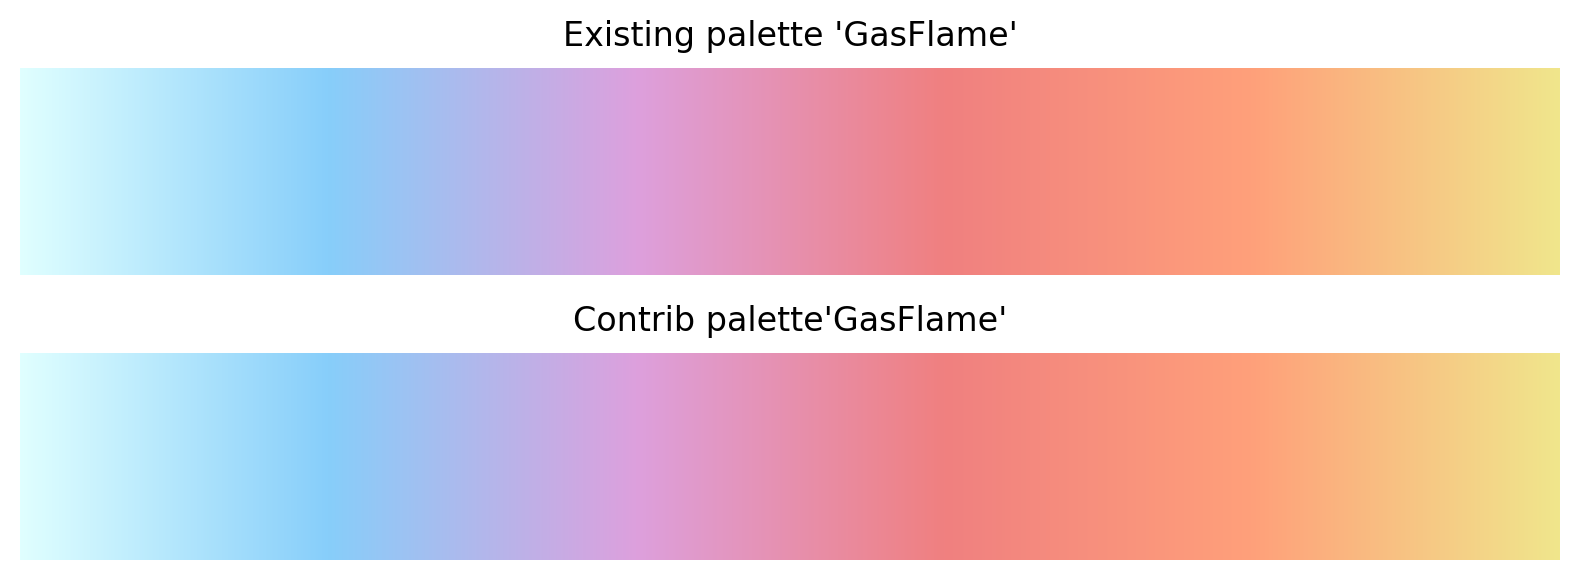
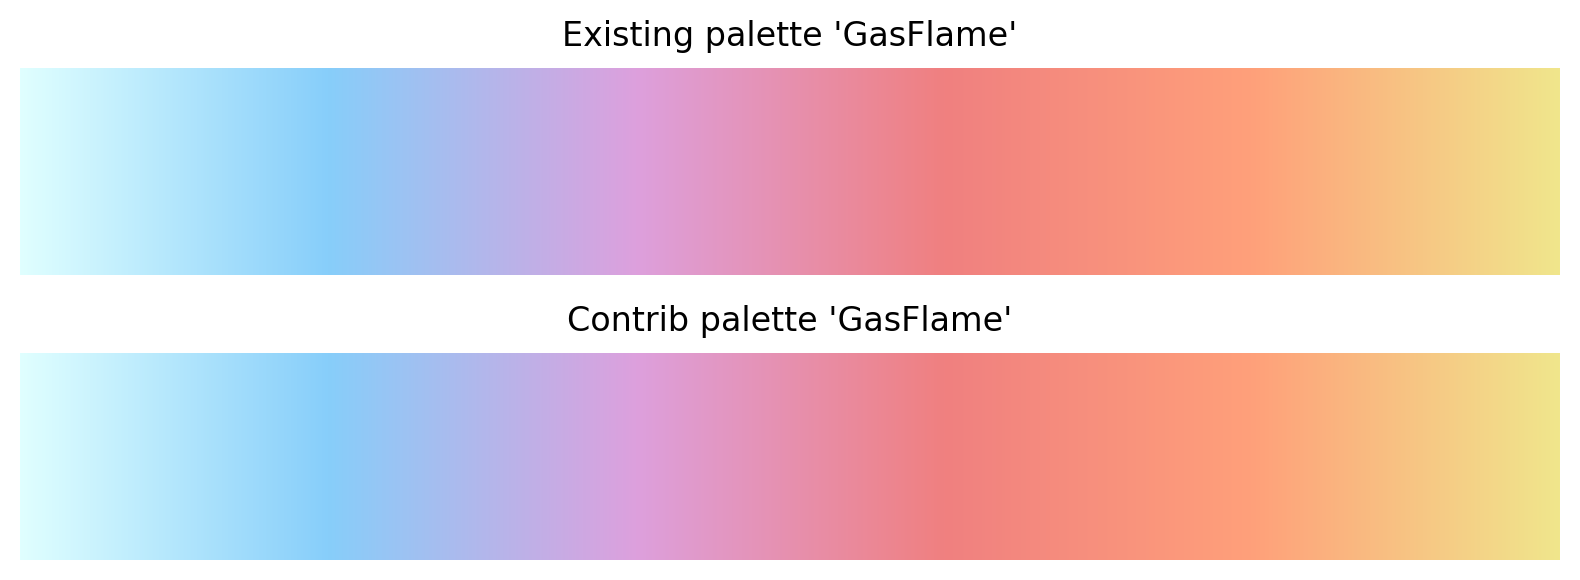
[palcol] TOOLS - Better codes

Changed region(s): [[0.3411, 0.5276, 0.6513, 0.5897], [0.3722, 0.031, 0.6203, 0.0931]]

diff --git a/palcol/tools/01-contrib/03-JSON-add-contribs.py b/palcol/tools/01-contrib/03-JSON-add-contribs.py
@@ -7,15 +7,13 @@ sys.path.append(str(Path(__file__).parent.parent))
 
 from cbutils.core import *
 
-import ast
-
 from json import (
     dumps as json_dumps,
     load  as json_load,
 )
 
 import matplotlib.pyplot as plt
-import numpy as np
+import numpy             as np
 
 
 # --------------- #
@@ -43,38 +41,52 @@ def report_gradient_clash(
     name            : str,
     img_path        : Path
 ) -> None:
-    # --- Créer les dégradés
-    def make_gradient(colors, width=800, height=100):
-        from matplotlib.colors import to_rgb
-        n = len(colors)
+    from matplotlib.colors import to_rgb
+
+    def make_gradient(
+        colors: [float, float, float],
+        width : int = 800,
+        height: int = 100
+    ) -> np.ndarray:
+        nbcols   = len(colors)
         gradient = np.linspace(0, 1, width)
-        arr = np.zeros((height, width, 3))
-        stops = np.linspace(0, 1, n)
+
+        arr        = np.zeros((height, width, 3))
+        stops      = np.linspace(0, 1, nbcols)
         rgb_colors = np.array([to_rgb(c) for c in colors])
+
         for i in range(3):
             arr[:, :, i] = np.interp(gradient, stops, rgb_colors[:, i])
+
         return arr
 
-    grad1 = make_gradient(existing_palette)
-    grad2 = make_gradient(contrib_palette)
+    grad_1 = make_gradient(existing_palette)
+    grad_2 = make_gradient(contrib_palette)
 
-    # --- Affichage
     fig, axes = plt.subplots(2, 1, figsize=(8, 3))
 
-    axes[0].imshow(grad1, aspect="auto")
-    axes[0].set_title(f"Existing palette '{palette_name}'", fontsize=12, pad=8)
+    axes[0].imshow(grad_1, aspect="auto")
+    axes[0].set_title(
+        f"Existing palette '{palette_name}'",
+        fontsize = 12,
+        pad      = 8
+    )
     axes[0].axis("off")
 
-    axes[1].imshow(grad2, aspect="auto")
-    axes[1].set_title(f"Contrib palette '{palette_name}'", fontsize=12, pad=8)
+    axes[1].imshow(grad_2, aspect="auto")
+    axes[1].set_title(
+        f"Contrib palette '{palette_name}'",
+        fontsize = 12,
+        pad      = 8
+    )
     axes[1].axis("off")
 
     plt.tight_layout()
 
     plt.savefig(
         img_path,
-        dpi=200,
-        bbox_inches="tight"
+        dpi         = 200,
+        bbox_inches = "tight"
     )
 
 
@@ -111,10 +123,10 @@ for folder, contribs in contribs_accepted.items():
 
         if palette_name in ALL_PALETTES:
             report_gradient_clash(
-                existing_palette    = ALL_PALETTES[palette_name],
-                contrib_palette = palette_def,
-                name            = palette_name,
-                img_path        = REPORT_NAME_CONFLICT_FILE
+                existing_palette = ALL_PALETTES[palette_name],
+                contrib_palette  = palette_def,
+                name             = palette_name,
+                img_path         = REPORT_NAME_CONFLICT_FILE
             )
 
             log_raise_error(

diff --git a/palcol/tools/01-contrib/01-JSON-add-matplotlib.py b/palcol/tools/01-contrib/01-JSON-add-matplotlib.py
@@ -5,11 +5,10 @@ import              sys
 
 sys.path.append(str(Path(__file__).parent.parent))
 
-from cbutils.core import *
+from cbutils.core   import *
+from cbutils.stdval import *
 
-from json   import dumps as json_dumps
-from math   import          floor
-from string import          ascii_letters, digits
+from json import dumps as json_dumps
 
 from matplotlib import colormaps
 
@@ -31,55 +30,14 @@ PALETTES_JSON_FILE.parent.mkdir(
     exist_ok = True
 )
 
-CHARS_ALLOWED = set(ascii_letters + digits)
-
-
-# --------------- #
-# -- FORMATTER -- #
-# --------------- #
-
-def _capitalize(n):
-    return n[0].upper() + n[1:]
-
-def stdname(n):
-    letters = set(n)
-
-    if not letters <= CHARS_ALLOWED:
-        for c in letters - CHARS_ALLOWED:
-            n = ''.join([
-                _capitalize(p)
-                for p in n.split(c)
-            ])
-
-    else:
-        n = _capitalize(n)
-
-    return n
-
-def stdfloat(x):
-    return floor(x * PRECISION) / PRECISION
-
-
-def minimize_palette(p):
-    if len(set(tuple(c) for c in p)) == len(p):
-        return p
-
-    new_p = []
-
-    for c in p:
-        if (not new_p or c != new_p[-1]):
-            new_p.append(c)
-
-    return new_p
-
 
 # -------------------------------------- #
 # -- BUILD FROM MATPLOTLIB COLOR MAPS -- #
 # -------------------------------------- #
 
-palettes = {}
-
 logging.info("Work on the 'Matplotlib' color maps.")
+
+palettes = {}
 
 allnames = sorted(
     [cm for cm in colormaps if cm[-2:] != "_r"],
@@ -94,15 +52,14 @@ for cmap_name in allnames:
 
     palettes[cmap_name] = minimize_palette([
         [
-            stdfloat(x)
-            for x in cmap(i / scale_factor)[:-1]  # No alpha canal.
+            stdfloat(x, PRECISION)
+            for x in cmap(i / scale_factor)[:-1]  # No alpha chanel.
         ]
         for i in range(SAMPLING_SIZE)
     ])
 
     logging.info(f"New palette from '{cmap_name}' color map.")
 
-    # break
 
 logging.info(
     f"{len(allnames)} palettes build from 'Matplotlib' color maps."

diff --git a/palcol/tools/01-contrib/02-JSON-add-asymptote.py b/palcol/tools/01-contrib/02-JSON-add-asymptote.py
@@ -10,17 +10,14 @@ import              sys
 sys.path.append(str(Path(__file__).parent.parent))
 
 from cbutils.core import *
+from cbutils      import *
 
 from json import (
     dumps as json_dumps,
     load  as json_load,
 )
 
-from string import ascii_letters, digits
-
 import requests
-
-import numpy as np
 
 
 # --------------- #
@@ -40,9 +37,6 @@ PALETTES_JSON_FILE = PRODUCTS_DIR / "palettes.json"
 
 with PALETTES_JSON_FILE.open(mode = "r") as f:
     ALL_PALETTES = json_load(f)
-
-
-CHARS_ALLOWED = set(ascii_letters + digits)
 
 
 PATTERN_ASY_COLORMAP = re.compile(
@@ -67,29 +61,6 @@ PATTERN_ASY_TRIPLE = re.compile(
 PATTERN_ASY_CHANNEL = re.compile(
     r"\(([\d.]+)\s*,\s*([\d.]+)\s*,\s*([\d.]+)\)"
 )
-
-
-# --------------- #
-# -- FORMATTER -- #
-# --------------- #
-
-def _capitalize(n):
-    return n[0].upper() + n[1:]
-
-def stdname(n):
-    letters = set(n)
-
-    if not letters <= CHARS_ALLOWED:
-        for c in letters - CHARS_ALLOWED:
-            n = ''.join([
-                _capitalize(p)
-                for p in n.split(c)
-            ])
-
-    else:
-        n = _capitalize(n)
-
-    return n
 
 
 # --------------------- #

diff --git a/palcol/tools/cbutils/stdval.py b/palcol/tools/cbutils/stdval.py
@@ -1,0 +1,62 @@
+
+#!/usr/bin/env python3
+
+from math   import floor
+from string import (
+    ascii_letters,
+    digits,
+)
+
+
+# --------------- #
+# -- CONSTANTS -- #
+# --------------- #
+
+CHARS_ALLOWED = set(ascii_letters + digits)
+
+
+# ------------ #
+# -- STRING -- #
+# ------------ #
+
+def _capitalize(n):
+    return n[0].upper() + n[1:]
+
+def stdname(n):
+    letters = set(n)
+
+    if not letters <= CHARS_ALLOWED:
+        for c in letters - CHARS_ALLOWED:
+            n = ''.join([
+                _capitalize(p)
+                for p in n.split(c)
+            ])
+
+    else:
+        n = _capitalize(n)
+
+    return n
+
+
+# ----------- #
+# -- FLOAT -- #
+# ----------- #
+
+def stdfloat(
+    x        : float,
+    precision: float
+) -> float:
+    return floor(x * precision) / precision
+
+
+def minimize_palette(p: list[float]) -> list[float]:
+    if len(set(tuple(c) for c in p)) == len(p):
+        return p
+
+    new_p = []
+
+    for c in p:
+        if (not new_p or c != new_p[-1]):
+            new_p.append(c)
+
+    return new_p

diff --git a/palcol/tools/01-contrib/04-JSON-normalize.py b/palcol/tools/01-contrib/04-JSON-normalize.py
@@ -20,8 +20,8 @@ from json import (
 THIS_DIR     = Path(__file__).parent
 PRODUCTS_DIR = THIS_DIR.parent.parent / "products"
 
-PALETTES_JSON_FILE = PRODUCTS_DIR / "palettes.json"
 
+PALETTES_JSON_FILE = PRODUCTS_DIR / "palettes.json"
 
 PATTERN_JSON_LIST = re.compile(r'\[\s*\n\s*([-\d.,\s]+)\s*\n\s*\]')
 
@@ -30,8 +30,8 @@ PATTERN_JSON_LIST = re.compile(r'\[\s*\n\s*([-\d.,\s]+)\s*\n\s*\]')
 # -- TOOLS -- #
 # ----------- #
 
-def compact_nblists(json_code):
-    def myreplace(match):
+def compact_nblists(json_code: str) -> str:
+    def myreplace(match: re.Match) -> str:
         content = match.group(1)
         numbers = re.findall(r'[-\d.]+', content)
 

diff --git a/palcol/tools/01-contrib/10-add-palettes-CODE.py b/palcol/tools/01-contrib/10-add-palettes-CODE.py
@@ -7,12 +7,8 @@ sys.path.append(str(Path(__file__).parent.parent))
 
 from cbutils.core import *
 
-import ast
 
 from json import load as json_load
-
-import matplotlib.pyplot as plt
-import numpy as np
 
 
 # --------------- #

diff --git a/palcol/tools/cbutils/__init__.py b/palcol/tools/cbutils/__init__.py
@@ -1,1 +1,3 @@
 #!/usr/bin/env python3
+
+from .stdval import *
